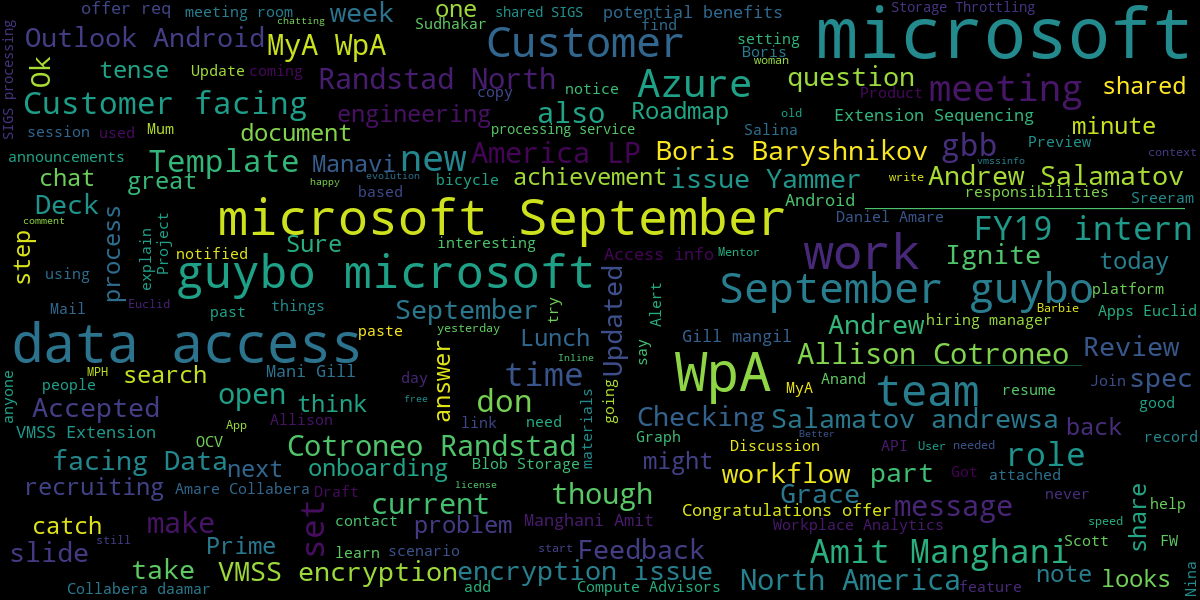
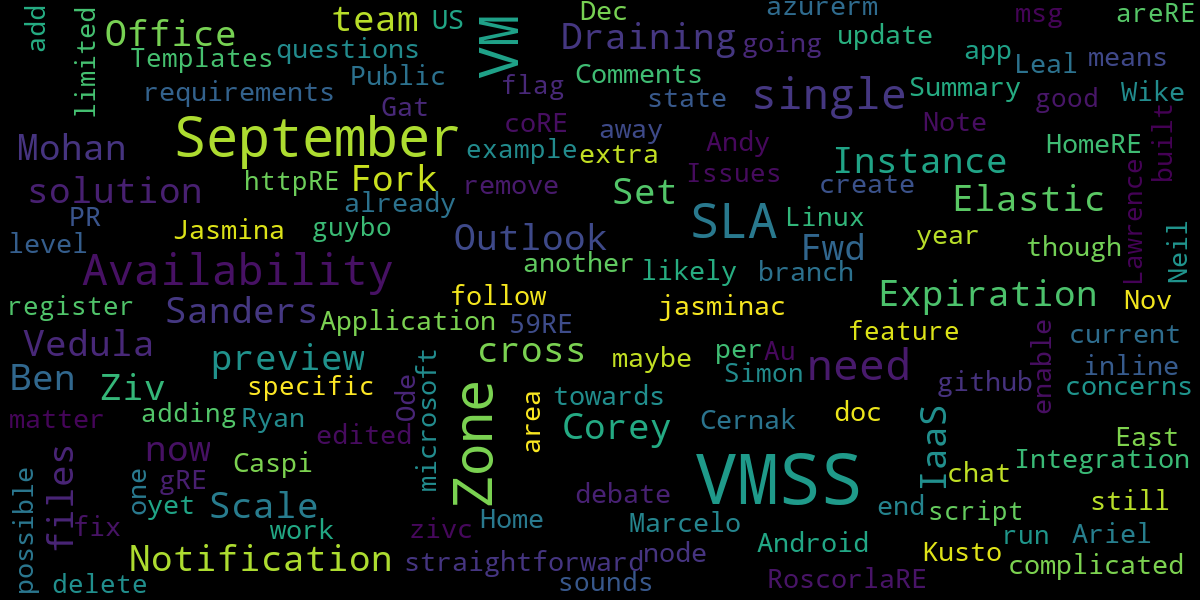
testing data cleanup

Changed region(s): [[0.0, 0.0, 1.0, 1.0]]

diff --git a/wordcloud/gbottle.py b/wordcloud/gbottle.py
@@ -54,6 +54,16 @@ os.environ['OAUTHLIB_INSECURE_TRANSPORT'] = '1'  # enable non-HTTPS for testing
 SESSION = Session()
 
 
+def clean_data(mail_data):
+    ''' Do basic cleanup on a mail dump '''
+    delete_list = ['\\r\\n', 'From:', 'To:', 'Subject:', 'Sent:', 'https://', '@microsoft.com', '<', '>']
+    for crap in delete_list:
+        mail_data = mail_data.replace(crap, '')
+
+    clean_data = mail_data.replace('_', ' ')
+    return clean_data
+
+
 def search_form(mailfolder, fromdate, todate, searchstr):
     return '<br/><form action="/maildump" method="post">' +\
         'Folder: <input name="folder" type="text" size=50 value="' + mailfolder + '"/> ' +\
@@ -95,13 +105,17 @@ def show_analysis(output):
     # define parameters
     params = urllib.parse.urlencode({})
 
+    # basic clean up of data
+    clean_output = clean_data(output)[:2048]
+    print(clean_output)
+
     # request body
     body = {
         "documents": [
             {
                 "language": "en",
                 "id": "1",
-                "text": output[:4096]
+                "text": clean_output[:2048]
             }
         ]
     }
@@ -149,7 +163,7 @@ def show_analysis(output):
         sentiment = 'Sentiment analysis error: ' + str(e)
 
     # create a word cloud image file from the text payload
-    wordcloud = WordCloud(width=1200, height=600, max_font_size=70, stopwords=stopwords).generate(output)
+    wordcloud = WordCloud(width=1200, height=600, max_font_size=70, stopwords=stopwords).generate(clean_output)
     wcimage = wordcloud.to_image()
     wcimage.save('static/img/wcimg.png')
     htmlimg = '<h3>Word cloud</h3><p><img src="/static/img/wcimg.png"/></p>' 
